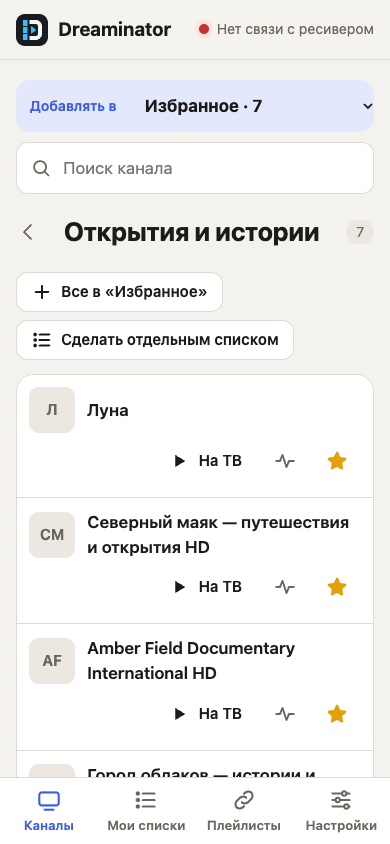
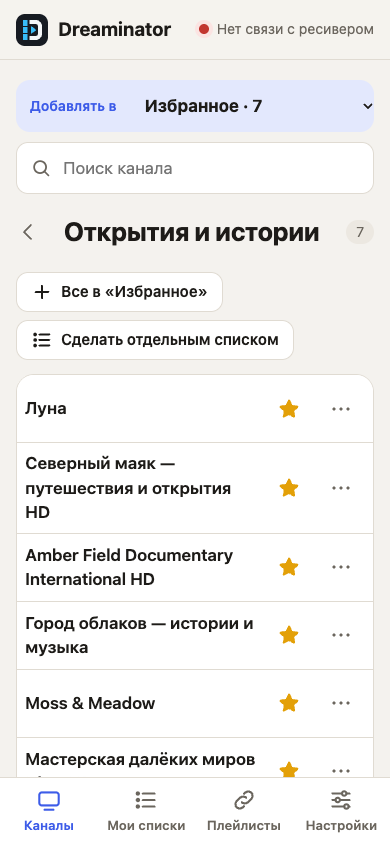
fix(web): compact phone channel rows with action menus

diff --git a/web/static/app.js b/web/static/app.js
@@ -47,6 +47,7 @@ const ICONS = {
   send: '<path d="M4 12l16-8-6 16-2.5-6.5z"/>',
   pulse: '<path d="M3 12h4l2.5-6 4 12 2.5-6H21"/>',
   upload: '<path d="M12 16V4M7 9l5-5 5 5"/><path d="M4 16v3a1 1 0 0 0 1 1h14a1 1 0 0 0 1-1v-3"/>',
+  more: '<circle cx="5" cy="12" r="1.6" fill="currentColor" stroke="none"/><circle cx="12" cy="12" r="1.6" fill="currentColor" stroke="none"/><circle cx="19" cy="12" r="1.6" fill="currentColor" stroke="none"/>',
 };
 
 function icon(name) {
@@ -223,14 +224,27 @@ async function applyNow(btn) {
 }
 
 function openModal(title, body, actions, onClose) {
+  const previousFocus = document.activeElement;
   modalOpen = true;
   const close = () => {
     overlay.remove();
     modalOpen = false;
     document.removeEventListener('keydown', onKey);
+    if (previousFocus?.isConnected) previousFocus.focus({ preventScroll: true });
     if (onClose) onClose();
   };
-  const onKey = (e) => { if (e.key === 'Escape') close(); };
+  const onKey = (e) => {
+    if (e.key === 'Escape') close();
+    if (e.key !== 'Tab') return;
+    const controls = [...overlay.querySelectorAll('button, input, select, textarea, a[href], [tabindex="0"]')]
+      .filter((el) => !el.disabled && el.getClientRects().length);
+    const first = controls[0], last = controls[controls.length - 1];
+    if (e.shiftKey && (document.activeElement === first || !overlay.contains(document.activeElement))) {
+      e.preventDefault(); last?.focus();
+    } else if (!e.shiftKey && (document.activeElement === last || !overlay.contains(document.activeElement))) {
+      e.preventDefault(); first?.focus();
+    }
+  };
   const overlay = h('div', { class: 'modal-overlay', onclick: (e) => { if (e.target === overlay) close(); } },
     h('div', { class: 'modal', role: 'dialog', 'aria-modal': 'true', 'aria-label': title },
       h('div', { class: 'modal-head' }, h('h2', {}, title),
@@ -239,6 +253,7 @@ function openModal(title, body, actions, onClose) {
       actions && h('div', { class: 'modal-actions' }, actions)));
   document.addEventListener('keydown', onKey);
   document.body.append(overlay);
+  overlay.querySelector('button')?.focus();
   return close;
 }
 
@@ -272,6 +287,7 @@ function makeSortable(list, onDone) {
     const handle = e.target.closest('.grip');
     const item = handle && handle.closest('.sortable-item');
     if (!item || item.parentElement !== list || !['ArrowUp', 'ArrowDown'].includes(e.key)) return;
+    closeChannelMenu();
     e.preventDefault();
     const sibling = e.key === 'ArrowUp' ? item.previousElementSibling : item.nextElementSibling;
     if (!sibling) return;
@@ -284,6 +300,7 @@ function makeSortable(list, onDone) {
     const handle = e.target.closest('.grip');
     const item = handle && handle.closest('.sortable-item');
     if (!item || item.parentElement !== list) return;
+    closeChannelMenu();
     e.preventDefault();
     dragging = true;
     const before = [...list.children].map((el) => el.dataset.id).join('|');
@@ -532,13 +549,51 @@ function channelRow(ch, sub) {
   return h('div', { class: 'row channel-row' },
     logo(ch),
     h('div', { class: 'row-main' }, h('div', { class: 'row-title' }, ch.name), sub && h('div', { class: 'row-sub' }, sub)),
-    h('div', { class: 'row-actions' },
-      h('button', { class: 'btn btn-sm btn-ghost', onclick: () => zap(ch), 'aria-label': `Включить ${ch.name} на телевизоре` }, icon('play'), 'На ТВ'),
-      probeButton(ch),
-      starButton(ch)));
+    channelActions(ch));
 }
 
-const probeButton = (ch) => h('button', { class: 'icon-btn', title: 'Проверить поток', 'aria-label': `Проверить поток ${ch.name}`, onclick: () => probeDialog(ch) }, icon('pulse'));
+const hasChannelPopovers = 'showPopover' in HTMLElement.prototype;
+const channelPhone = matchMedia('(max-width: 640px)');
+let channelMenuID = 0;
+
+function closeChannelMenu() {
+  if (hasChannelPopovers) $('.channel-secondary:popover-open')?.hidePopover();
+}
+
+function channelActions(ch, remove) {
+  const compact = hasChannelPopovers && channelPhone.matches;
+  const fullLabel = (text) => h('span', { class: 'channel-action-full' }, text);
+  const menu = h('div', { class: 'channel-secondary',
+    popover: compact ? 'auto' : null, id: compact ? `channel-menu-${++channelMenuID}` : null,
+    role: compact ? 'group' : null, 'aria-label': compact ? `Действия: ${ch.name}` : null },
+    !ch.missing && h('button', { class: 'btn btn-sm btn-ghost', onclick: () => zap(ch), 'aria-label': `Включить ${ch.name} на телевизоре` },
+      icon('play'), h('span', { class: 'channel-action-short' }, 'На ТВ'), fullLabel('Включить на ТВ')),
+    !ch.missing && h('button', { class: 'icon-btn', title: 'Проверить поток', 'aria-label': `Проверить поток ${ch.name}`, onclick: () => probeDialog(ch) },
+      icon('pulse'), fullLabel('Проверить поток')),
+    remove && h('button', { class: 'icon-btn danger', 'aria-label': `Убрать ${ch.name}`, onclick: remove }, icon('x'), fullLabel('Убрать из списка')));
+  const more = compact && h('button', { class: 'icon-btn channel-menu-toggle', type: 'button',
+    popovertarget: menu.id, 'aria-label': `Действия: ${ch.name}`, 'aria-expanded': 'false', onclick: (e) => {
+      e.preventDefault();
+      if (menu.matches(':popover-open')) { menu.hidePopover(); return; }
+      menu.showPopover();
+      const rect = more.getBoundingClientRect();
+      const ceiling = $('.topbar').getBoundingClientRect().bottom + 8;
+      const floor = Math.min(innerHeight, $('.nav').getBoundingClientRect().top,
+        $('#applybar').childElementCount ? $('#applybar').getBoundingClientRect().top : innerHeight);
+      menu.style.maxHeight = `${Math.max(48, floor - ceiling - 8)}px`;
+      menu.style.left = `${Math.max(12, Math.min(rect.right - menu.offsetWidth, innerWidth - menu.offsetWidth - 12))}px`;
+      menu.style.top = `${Math.max(ceiling, Math.min(rect.bottom + 4, floor - menu.offsetHeight - 8))}px`;
+      menu.querySelector('button')?.focus({ preventScroll: true });
+    } }, icon('more'));
+  if (compact) {
+    menu.addEventListener('beforetoggle', (e) => {
+      if (e.newState === 'closed' && menu.contains(document.activeElement)) more.focus({ preventScroll: true });
+    });
+    menu.addEventListener('toggle', () => more.setAttribute('aria-expanded', String(menu.matches(':popover-open'))));
+    menu.addEventListener('click', (e) => { if (e.target.closest('button')) menu.hidePopover(); }, true);
+  }
+  return h('div', { class: 'row-actions' }, menu, !remove && starButton(ch), more);
+}
 
 async function probeDialog(ch) {
   const body = h('div', {},
@@ -651,10 +706,7 @@ function viewBouquet(id) {
       logo(c),
       h('div', { class: 'row-main' }, h('div', { class: 'row-title' }, c.name),
         c.missing && h('div', { class: 'row-sub' }, 'Нет в плейлисте — на ТВ не попадёт')),
-      h('div', { class: 'row-actions' },
-        !c.missing && h('button', { class: 'btn btn-sm btn-ghost', 'aria-label': `Включить ${c.name} на телевизоре`, onclick: () => zap(c) }, icon('play'), 'На ТВ'),
-        !c.missing && probeButton(c),
-        h('button', { class: 'icon-btn danger', 'aria-label': `Убрать ${c.name}`, onclick: () => removeChannel(c) }, icon('x'))))));
+      channelActions(c, () => removeChannel(c)))));
   makeSortable(list, async (ids) => {
     const byKey = new Map(b.channels.map((c) => [key(c), c]));
     const channels = ids.map((k) => byKey.get(k)).filter(Boolean).map((c) => ({ source: c.source, id: c.id, name: c.name }));
@@ -1400,6 +1452,15 @@ async function viewTMDBMatch() {
 
 // ---------------------------------------------------------------- boot
 
+document.documentElement.classList.toggle('channel-popovers', hasChannelPopovers);
+window.addEventListener('scroll', closeChannelMenu, { passive: true });
+window.addEventListener('resize', closeChannelMenu);
+channelPhone.addEventListener('change', () => {
+  closeChannelMenu();
+  const [tab, sub] = route();
+  if (S && hasChannelPopovers && (tab === 'channels' || (tab === 'lists' && sub && sub !== 'receiver'))) render();
+});
+
 // Reserve the actual panel height, including wrapped copy and safe-area padding.
 new ResizeObserver(() => {
   document.documentElement.style.setProperty('--apply-h', `${$('#applybar').getBoundingClientRect().height}px`);
@@ -1407,7 +1468,7 @@ new ResizeObserver(() => {
 
 for (const a of document.querySelectorAll('.nav a')) a.prepend(icon(a.dataset.icon));
 // A stale search would hide the group or playlist the user just opened.
-window.addEventListener('hashchange', () => { ui.q = ''; window.scrollTo(0, 0); render(); });
+window.addEventListener('hashchange', () => { closeChannelMenu(); ui.q = ''; window.scrollTo(0, 0); render(); });
 
 (async function boot() {
   try {

diff --git a/web/static/style.css b/web/static/style.css
@@ -402,6 +402,9 @@ main {
 .row .btn-sm { flex: none; }
 
 .row-actions { display: flex; align-items: center; gap: 4px; flex: none; }
+.channel-secondary { display: contents; }
+.channel-action-full { display: none; }
+.channel-secondary[popover]:not(:popover-open) { display: none; }
 .channel-row .row-title, .channel-row .row-sub, .list-card .row-title {
   white-space: normal;
   overflow-wrap: anywhere;
@@ -419,6 +422,37 @@ main {
   .channel-row.sortable-item > .logo { grid-column: 2; }
   .channel-row.sortable-item > .row-main { grid-column: 3; }
   .channel-row.sortable-item > .row-actions { grid-column: 2 / -1; }
+
+  .channel-popovers .channel-row { display: flex; gap: 8px; padding: 8px; }
+  .channel-popovers .channel-row > .logo { display: none; }
+  .channel-popovers .channel-row > .grip { align-self: center; height: 48px; }
+  .channel-secondary:popover-open {
+    display: flex;
+    flex-direction: column;
+    gap: 0;
+    position: fixed;
+    inset: auto;
+    margin: 0;
+    width: 260px;
+    max-width: calc(100vw - 24px);
+    overflow-y: auto;
+    padding: 6px;
+    border: 1px solid var(--border);
+    border-radius: 12px;
+    background: var(--surface);
+    color: var(--text);
+    box-shadow: var(--shadow);
+  }
+  .channel-secondary:popover-open > button {
+    display: flex; align-items: center; justify-content: flex-start; gap: 12px;
+    width: 100%; height: auto; min-height: 48px; padding: 10px 12px;
+    border: 0; background: transparent; color: var(--text);
+    font: inherit; font-size: 16px; font-weight: 500; text-align: left; white-space: normal;
+  }
+  .channel-secondary:popover-open > .danger { color: var(--danger); }
+  .channel-secondary:popover-open > button:hover { background: var(--surface-2); }
+  .channel-secondary:popover-open .channel-action-full { display: inline; }
+  .channel-secondary:popover-open .channel-action-short { display: none; }
 }
 
 .logo {

diff --git a/docs/responsive-web.md b/docs/responsive-web.md
@@ -6,19 +6,21 @@ This focused audit and adaptation preserves the existing Russian interface, colo
 
 | Surface | Observed problem | Result |
 | --- | --- | --- |
-| Phone, 360/390 px | Favorites left only 6/36 px for a channel name because the handle, logo and three actions shared one flex row. | Names wrap in their own area; actions sit below at 48 px touch size. The drag handle remains separate from page scrolling. |
+| Phone, 360/390 px | Favorites originally left only 6/36 px for a channel name. Moving actions below fixed readability but only four channels fit on screen. | Hide logos and move secondary actions into “⋯”. Seven fixture channels now fit; names wrap, the handle stays separate from scrolling, and controls retain 48 px touch targets. Channels keep the favorite star directly available. |
 | Tablet, 768/1024 px | Long channel names were truncated despite usable vertical space. | Compact rows remain, with wrapping names and grouped actions. |
 | Desktop, 1440 px | Channel controls had inconsistent playback labels; handles were unavailable to keyboard users. | Playback says “На ТВ” in both channel views. Handles accept Up/Down arrows and retain focus after saving. |
 | Shared | Long group/action/source labels could exceed their container. The floating send panel could cover the last action after editing. | Labels wrap; bottom space follows the actual panel height. Navigation has visible keyboard focus and an active-page state; favorite buttons expose their selected state. |
 
 No provider configuration or receiver/plugin behavior is changed.
 
+The compact layout applies only through 640 CSS pixels. Tablet and desktop keep their existing logos and inline actions; their verification screenshots are byte-for-byte identical to the previous PR revision. Browsers without native popovers retain the earlier layout and inline actions. The menu closes on outside interaction, Escape, scrolling, resizing, navigation or a selected action; it stays above the bottom navigation and send panel. Opening the probe dialog moves focus into the dialog and closing it restores focus to the menu trigger.
+
 ## Verification
 
 - `make test`, `make plugin-unit`, `make ipk ipk-vuuno4kse`, `python3 tools/check_packages.py`.
-- `make web-test`: real Go service and isolated Chromium; Channels, My lists, Sources, Settings, empty lists and missing channels at all five widths. Checks geometry, touch target sizes, favorites, search, probe error handling, saved pointer/keyboard order, retained focus and access to the final action above the send panel.
+- `make web-test`: real Go service and isolated Chromium; Channels, My lists, Sources, Settings, empty lists and missing channels at all five widths. Checks density, geometry, touch target sizes, favorites, search, menu placement and dismissal, menu-to-dialog focus, playback/probe error handling, saved pointer/keyboard order, breakpoint changes and access to the final action above the send panel.
 - The regression failed against the original interface with `title only 6px at 360px` before the layout fix.
-- Synthesized Chromium touch input also verified persisted drag order, page scrolling outside the handle, and cancellation of a drag.
+- Synthesized Chromium touch input also verified menu tap/outside dismissal, Escape focus restoration, persisted dragging from an open menu, page scrolling outside the handle, and cancellation of a drag.
 - Impeccable's source detector reported no findings for the changed UI files. Light and dark views were inspected visually.
 
 Physical iOS/Android devices, Safari and actual receiver playback were not tested. Chromium viewport emulation and synthesized touch do not certify those platforms. To reproduce screenshots, see [the development guide](development.md).
@@ -27,11 +29,15 @@ Physical iOS/Android devices, Safari and actual receiver playback were not teste
 
 Phone, 390 × 844:
 
-![Favorites on a phone with wrapping channel names and actions below](screenshots/responsive-favorites-phone.png)
+![Favorites on a phone with wrapping channel names, handles and action menus](screenshots/responsive-favorites-phone.png)
+
+Phone action menu:
+
+![Channel actions with playback, probe and remove commands](screenshots/responsive-favorites-menu-phone.png)
 
 Channels on a phone, 390 × 844:
 
-![Channels on a phone with separate playback, probe and favorite controls](screenshots/responsive-channels-phone.png)
+![Channels on a phone with directly available favorite stars and action menus](screenshots/responsive-channels-phone.png)
 
 Tablet, 768 × 1024:
 

diff --git a/docs/development.md b/docs/development.md
@@ -31,7 +31,7 @@ make docs         # printable Windows guide
 
 `make dev` uses local directories and disables OpenWebif. The web interface is plain HTML, CSS and JavaScript embedded with Go's `embed`; it has no frontend build step. Local tests can load playlists and EPG using `file:///absolute/path` URLs. The package version defaults to the Makefile's `VERSION`; override it explicitly when preparing a different build.
 
-`make web-test` builds the current service and launches an isolated headless Chrome session through `npx agent-browser@0.41.2` (downloaded on first use). It creates temporary invented sources, channels and lists, disables receiver access and nightly refresh, and removes the temporary state afterward. It checks Channels, My lists, Sources and Settings at 360, 390, 768, 1024 and 1440 CSS pixels, including long Latin/Cyrillic names, empty/missing channels, touch target sizes, favorites, search, pointer/keyboard sorting and the floating send panel. Set `DREAMINATOR_WEB_SCREENSHOTS=/absolute/output/path` to retain rendered phone, tablet and desktop screenshots. Normal `make test` skips the browser check; CI's fast Node tests need no browser or npm download.
+`make web-test` builds the current service and launches an isolated headless Chrome session through `npx agent-browser@0.41.2` (downloaded on first use). It creates temporary invented sources, channels and lists, disables receiver access and nightly refresh, and removes the temporary state afterward. It checks Channels, My lists, Sources and Settings at 360, 390, 768, 1024 and 1440 CSS pixels, including long Latin/Cyrillic names, empty/missing channels, phone density, menu placement/dismissal/focus, touch target sizes, favorites, search, pointer/keyboard sorting and the floating send panel. Set `DREAMINATOR_WEB_SCREENSHOTS=/absolute/output/path` to retain rendered phone, tablet, desktop and open-menu screenshots. Normal `make test` skips the browser check; CI's fast Node tests need no browser or npm download.
 
 The Vu+ target uses `GOOS=linux GOARCH=arm GOARM=7 CGO_ENABLED=0`. Its static executable has no dependency on the image's libc or an ARM cross-compiler. The IPK declares `Architecture: vuuno4kse`, the receiver's machine architecture, so normal `opkg` architecture checks distinguish it from a DM520 package. The packager checks ELF class, byte order, CPU and static linking before creating either package. `Architecture: all` remains the legacy DM520 label for compatibility; it is not a universal executable.
 
